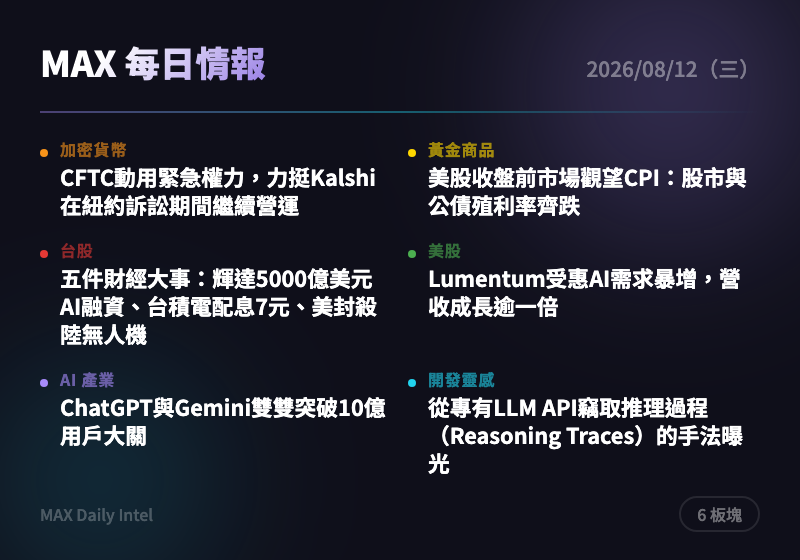
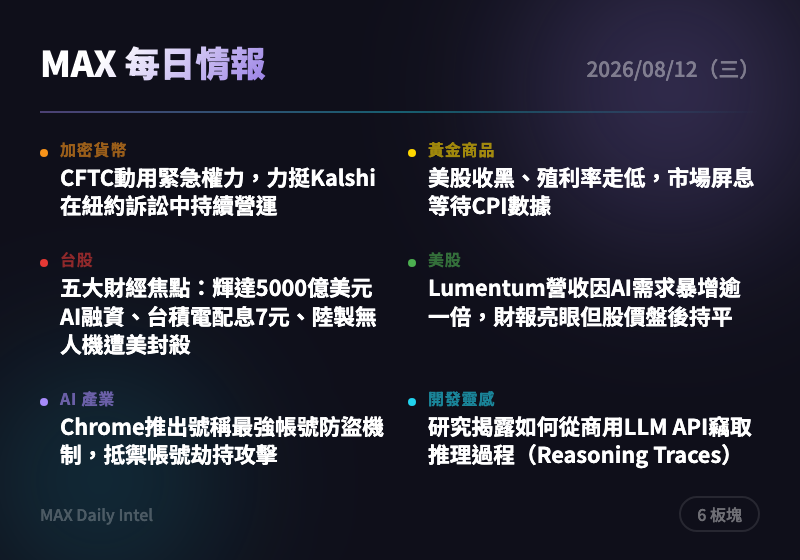
intel: 2026-08-12 每日情報自動生成

diff --git a/docs/2026-08-12.html b/docs/2026-08-12.html
@@ -318,14 +318,14 @@
     </div>
     <div class="news-card">
       <div class="source">The Block</div>
-      <h3><a href="https://www.theblock.co/news/regulation/2026-08-11-cftc-flexes-emergency-authority-kalshi-operating-amid-new-york-lawsuit-411507" target="_blank" rel="noopener">CFTC動用緊急權力，力挺Kalshi在紐約訴訟期間繼續營運</a></h3>
-      <div class="summary">美國商品期貨交易委員會（CFTC）動用緊急權力，要求預測市場平台Kalshi在遭紐約州提告後仍可繼續營運。此舉顯示聯邦監管機構與州政府在預測市場合法性上出現管轄權角力，對整個預測市場／加密博弈類產品是一大利多訊號。可留意後續聯邦與各州監管衝突是否擴大至其他平台。</div>
-      <div class="tags"><span class="tag">監管</span><span class="tag">預測市場</span><span class="tag">CFTC</span><span class="tag">法律訴訟</span></div>
+      <h3><a href="https://www.theblock.co/news/regulation/2026-08-11-cftc-flexes-emergency-authority-kalshi-operating-amid-new-york-lawsuit-411507" target="_blank" rel="noopener">CFTC動用緊急權力，力挺Kalshi在紐約訴訟中持續營運</a></h3>
+      <div class="summary">美國商品期貨交易委員會（CFTC）動用緊急權力，下令預測市場平台Kalshi在遭紐約州提告後仍可繼續營運。此舉顯示聯邦監管機關與州政府在預測市場（如Kalshi的博弈型合約）監管權限上出現直接角力，對整個預測市場產業的合法性至關重要。可持續關注聯邦與州級監管衝突的後續發展，評估對相關類股與平台的長期影響。</div>
+      <div class="tags"><span class="tag">監管</span><span class="tag">CFTC</span><span class="tag">預測市場</span><span class="tag">Kalshi</span></div>
     </div>
     <div class="news-card">
       <div class="source">CoinDesk</div>
-      <h3><a href="https://www.coindesk.com/markets/2026/08/11/bitcoin-stuck-as-etf-inflows-offset-selling-but-inflation-data-could-spark-a-move" target="_blank" rel="noopener">比特幣陷入盤整：ETF流入抵銷賣壓，通膨數據恐成變盤點</a></h3>
-      <div class="summary">比特幣近日在ETF資金流入與現貨賣壓相互抵銷下陷入區間震盪。市場正等待美國CPI數據，一旦數據意外可能觸發方向性突破。建議短線觀望，待CPI公布後再決定加減碼。</div>
+      <h3><a href="https://www.coindesk.com/markets/2026/08/11/bitcoin-stuck-as-etf-inflows-offset-selling-but-inflation-data-could-spark-a-move" target="_blank" rel="noopener">比特幣陷入盤整，ETF流入抵銷賣壓，CPI數據恐成變盤關鍵</a></h3>
+      <div class="summary">比特幣近期在ETF資金流入與賣壓互相抵銷下陷入區間震盪。市場正屏息等待美國通膨數據公布，這可能成為打破僵局、觸發方向性行情的關鍵催化劑。建議留意CPI公布前後的波動放大，避免在數據公布前重倉單邊押注。</div>
       <div class="tags"><span class="tag">比特幣</span><span class="tag">ETF</span><span class="tag">通膨數據</span><span class="tag">總體經濟</span></div>
     </div>
   </section>
@@ -338,15 +338,15 @@
     </div>
     <div class="news-card">
       <div class="source">ForexLive</div>
-      <h3><a href="https://investinglive.com/news/investinglive-americas-fx-news-wrap-11-aug-stocks-yields-slip-as-markets-await-us-cpi/" target="_blank" rel="noopener">美股收盤前市場觀望CPI：股市與公債殖利率齊跌</a></h3>
-      <div class="summary">週二美股收盤普遍下滑，公債殖利率小幅走低，美元兌主要貨幣變動不大。市場情緒受美伊協議前景轉淡、荷姆茲海峽局勢不明及科技股疲軟拖累。投資人應留意隔日CPI數據公布前的避險情緒是否延續。</div>
-      <div class="tags"><span class="tag">美股</span><span class="tag">公債殖利率</span><span class="tag">地緣政治</span><span class="tag">通膨數據</span></div>
+      <h3><a href="https://investinglive.com/news/investinglive-americas-fx-news-wrap-11-aug-stocks-yields-slip-as-markets-await-us-cpi/" target="_blank" rel="noopener">美股收黑、殖利率走低，市場屏息等待CPI數據</a></h3>
+      <div class="summary">週二美股收盤多數走低，公債殖利率沿殖利率曲線多數下滑，美元兌主要貨幣變動不大。市場對美伊協議的樂觀情緒消退，加上荷莫茲海峽情勢持續不明朗，科技股表現疲弱。交易人正將焦點轉向即將公布的CPI數據，投資人可提前佈局波動避險策略。</div>
+      <div class="tags"><span class="tag">美股</span><span class="tag">公債殖利率</span><span class="tag">CPI</span><span class="tag">地緣政治</span></div>
     </div>
     <div class="news-card">
       <div class="source">ForexLive</div>
-      <h3><a href="https://investinglive.com/news/eia-raises-crude-oil-price-forecasts-as-middle-east-supply-risks-tighten-outlook/" target="_blank" rel="noopener">中東供應風險升溫，EIA上修原油價格預測</a></h3>
-      <div class="summary">美國能源資訊署（EIA）因中東地緣政治風險與航運路線持續受威脅，上修2026與2027年原油價格預測。此舉反映市場對供應中斷的擔憂持續發酵，可能連帶推升黃金避險需求。留意原油與黃金聯動走勢，作為地緣風險升溫的領先指標。</div>
-      <div class="tags"><span class="tag">原油</span><span class="tag">地緣政治</span><span class="tag">EIA</span><span class="tag">中東</span></div>
+      <h3><a href="https://investinglive.com/news/eia-raises-crude-oil-price-forecasts-as-middle-east-supply-risks-tighten-outlook/" target="_blank" rel="noopener">EIA上調原油價格預測，中東供應風險收緊市場展望</a></h3>
+      <div class="summary">美國能源資訊署（EIA）大幅調升2026與2027年原油價格預測，主因中東地區7月的產量中斷及航運路線持續存在風險。地緣政治緊張推升能源價格預期，恐加大通膨壓力並牽動央行利率決策。可留意能源類股與通膨連動資產的避險機會。</div>
+      <div class="tags"><span class="tag">原油</span><span class="tag">地緣政治</span><span class="tag">中東</span><span class="tag">通膨</span></div>
     </div>
   </section>
 
@@ -358,15 +358,15 @@
     </div>
     <div class="news-card">
       <div class="source">經濟日報</div>
-      <h3><a href="https://money.udn.com/money/story/5607/9685691" target="_blank" rel="noopener">五件財經大事：輝達5000億美元AI融資、台積電配息7元、美封殺陸無人機</a></h3>
-      <div class="summary">輝達宣布與六大金融巨頭合作設立逾5000億美元的AI基礎建設融資平台，同時台積電董事會確認Q2配息維持7元並與索尼合資投資日圓2820億元新公司。美國同步升級對中國無人機的管制，雷虎、漢翔、亞光等台廠可望受惠。建議關注AI供應鏈與無人機軍工概念股的資金動向。</div>
-      <div class="tags"><span class="tag">台積電</span><span class="tag">輝達</span><span class="tag">AI</span><span class="tag">地緣政治</span></div>
+      <h3><a href="https://money.udn.com/money/story/5607/9685691" target="_blank" rel="noopener">五大財經焦點：輝達5000億美元AI融資、台積電配息7元、陸製無人機遭美封殺</a></h3>
+      <div class="summary">輝達攜六大金融巨頭設立逾5,000億美元的AI基礎設施融資平台，同時台積電董事會確認Q2配息維持7元並與索尼合資投資2,820億日圓。美國對中國無人機管制再升級，雷虎、漢翔等台廠可望受惠轉單效應。建議關注AI供應鏈資金動能與美中科技對抗延伸出的台廠轉單機會。</div>
+      <div class="tags"><span class="tag">台積電</span><span class="tag">輝達</span><span class="tag">AI</span><span class="tag">美中科技戰</span></div>
     </div>
     <div class="news-card">
       <div class="source">經濟日報</div>
-      <h3><a href="https://money.udn.com/money/story/5607/9685604" target="_blank" rel="noopener">台股先殺多再軋空收復45K，外資動向、油價、處置股新制牽動後市</a></h3>
-      <div class="summary">輝達攜手六大金融巨頭設立逾5000億美元運算融資平台，一度衝擊科技股信心導致台股開低，但三大法人合計買超280.1億元強力反攻，終場上漲191點收復45,120點。後續走勢仍需關注外資動向、油價變化及處置股新制的影響。可留意權值科技股逢低承接機會。</div>
-      <div class="tags"><span class="tag">台股</span><span class="tag">外資</span><span class="tag">輝達</span><span class="tag">半導體</span></div>
+      <h3><a href="https://money.udn.com/money/story/5607/9685604" target="_blank" rel="noopener">台股先殺多再軋空，收復45K關卡，外資動向牽動後市</a></h3>
+      <div class="summary">受輝達AI融資消息衝擊科技股信心，台股昨日開低走低，但盤中三大法人合計買超280.1億元，成功逆轉指數翻紅，全日大漲191點收復45,120點的45K關卡。此波「先殺多、再軋空」的洗盤格局顯示市場資金韌性強勁，但需留意處置股新制與油價變化對後市的干擾。可觀察三大法人買賣超動向作為短線進出參考。</div>
+      <div class="tags"><span class="tag">台股</span><span class="tag">外資買超</span><span class="tag">AI供應鏈</span><span class="tag">大盤走勢</span></div>
     </div>
   </section>
 
@@ -378,15 +378,15 @@
     </div>
     <div class="news-card">
       <div class="source">MarketWatch</div>
-      <h3><a href="https://www.marketwatch.com/story/lumentum-sees-sales-more-than-double-as-ai-demand-swells-6ebe6ef1?mod=mw_rss_topstories" target="_blank" rel="noopener">Lumentum受惠AI需求暴增，營收成長逾一倍</a></h3>
-      <div class="summary">光通訊元件廠Lumentum受惠AI基礎建設需求強勁，營收較去年同期成長逾一倍，財報表現亮眼且財測展望樂觀。不過盤後股價反應平淡，顯示市場對利多已有預期。可觀察AI光通訊供應鏈後續評價修正空間。</div>
-      <div class="tags"><span class="tag">AI</span><span class="tag">半導體</span><span class="tag">財報</span><span class="tag">光通訊</span></div>
+      <h3><a href="https://www.marketwatch.com/story/lumentum-sees-sales-more-than-double-as-ai-demand-swells-6ebe6ef1?mod=mw_rss_topstories" target="_blank" rel="noopener">Lumentum營收因AI需求暴增逾一倍，財報亮眼但股價盤後持平</a></h3>
+      <div class="summary">光通訊元件廠Lumentum受惠於AI基礎建設需求強勁，單季營收成長逾一倍，財報表現優於預期且展望樂觀。儘管業績亮眼，股價在盤後交易中卻大致持平，顯示市場對AI供應鏈類股的高預期已提前反映在股價中。可留意類似AI硬體供應鏈公司「利多不漲」的現象是否延續。</div>
+      <div class="tags"><span class="tag">AI</span><span class="tag">財報</span><span class="tag">光通訊</span><span class="tag">美股</span></div>
     </div>
     <div class="news-card">
       <div class="source">MarketWatch</div>
-      <h3><a href="https://www.marketwatch.com/story/super-micros-earnings-report-brings-more-good-news-and-the-stock-is-climbing-30e5ca89?mod=mw_rss_topstories" target="_blank" rel="noopener">美超微(Super Micro)財報再傳佳音，股價走揚</a></h3>
-      <div class="summary">美超微公司公布的財報再度傳出正面消息，股價因此上漲。公司先前已預告獲利能力將改善，如今最新財測進一步超出華爾街預期。AI伺服器供應鏈相關個股可持續追蹤其後續展望。</div>
-      <div class="tags"><span class="tag">美超微</span><span class="tag">AI</span><span class="tag">財報</span><span class="tag">伺服器</span></div>
+      <h3><a href="https://www.marketwatch.com/story/super-micros-earnings-report-brings-more-good-news-and-the-stock-is-climbing-30e5ca89?mod=mw_rss_topstories" target="_blank" rel="noopener">美超微(Super Micro)財報再傳佳音，股價應聲上漲</a></h3>
+      <div class="summary">伺服器大廠美超微公布的最新財報再度傳出好消息，展望超越市場預期，帶動股價走揚。公司數週前已預告獲利能力軌跡改善，此次財報進一步驗證其AI伺服器業務動能持續增溫。建議關注AI伺服器供應鏈類股在財報季的後續表現。</div>
+      <div class="tags"><span class="tag">美超微</span><span class="tag">AI伺服器</span><span class="tag">財報</span><span class="tag">美股</span></div>
     </div>
   </section>
 
@@ -397,16 +397,16 @@
       <span class="badge">2 則</span>
     </div>
     <div class="news-card">
-      <div class="source">The Verge AI</div>
-      <h3><a href="https://www.theverge.com/ai-artificial-intelligence/978113/chatgpt-gemini-1-billion-users" target="_blank" rel="noopener">ChatGPT與Gemini雙雙突破10億用戶大關</a></h3>
-      <div class="summary">Google執行長Pichai宣布Gemini月活躍用戶突破10億，成為Google成長最快的產品，緊追OpenAI的ChatGPT達成同一里程碑。這顯示生成式AI應用已進入大眾化普及階段，兩大龍頭競爭將更趨白熱化。可觀察後續兩家在功能與商業化上的差異化策略。</div>
-      <div class="tags"><span class="tag">Google</span><span class="tag">OpenAI</span><span class="tag">生成式AI</span><span class="tag">用戶成長</span></div>
+      <div class="source">Ars Technica AI</div>
+      <h3><a href="https://arstechnica.com/security/2026/08/chrome-adopts-what-may-be-the-best-protection-yet-against-account-takeovers/" target="_blank" rel="noopener">Chrome推出號稱最強帳號防盜機制，抵禦帳號劫持攻擊</a></h3>
+      <div class="summary">Google為Chrome瀏覽器導入裝置綁定的session憑證機制，可有效阻擋日益猖獗的一種帳號劫持手法（session token竊取）。此為瀏覽器安全防護的重大升級，對企業與個人資安防護皆具意義。建議關注此機制普及後對釣魚攻擊及惡意軟體竊取session手法的實際防禦效果。</div>
+      <div class="tags"><span class="tag">資安</span><span class="tag">Chrome</span><span class="tag">帳號防護</span><span class="tag">Google</span></div>
     </div>
     <div class="news-card">
-      <div class="source">TechCrunch AI</div>
-      <h3><a href="https://techcrunch.com/2026/08/11/googles-gemini-app-surges-to-one-billion-users/" target="_blank" rel="noopener">Google Gemini應用程式用戶激增至10億</a></h3>
-      <div class="summary">Google公布Gemini詳細使用數據，63%用戶直接用語音功能與助理對話，且每日生成圖片數已超過1.5億張。這顯示語音互動與圖像生成正成為AI應用的核心使用場景，而非僅止於文字問答。可留意語音優先AI助理相關產品的投資機會。</div>
-      <div class="tags"><span class="tag">Google</span><span class="tag">Gemini</span><span class="tag">語音AI</span><span class="tag">生成式AI</span></div>
+      <div class="source">The Verge AI</div>
+      <h3><a href="https://www.theverge.com/ai-artificial-intelligence/978113/chatgpt-gemini-1-billion-users" target="_blank" rel="noopener">ChatGPT與Gemini雙雙突破10億用戶大關</a></h3>
+      <div class="summary">Google執行長Pichai在X上宣布Gemini月活躍用戶已突破10億，成為Google成長最快的產品，緊追OpenAI的ChatGPT達成相同里程碑。這代表主流AI聊天機器人已正式進入大眾化普及階段，兩大龍頭的用戶爭奪戰進入白熱化。可持續關注用戶規模轉化為商業營收與生態系鎖定效應的能力。</div>
+      <div class="tags"><span class="tag">AI</span><span class="tag">Gemini</span><span class="tag">ChatGPT</span><span class="tag">用戶成長</span></div>
     </div>
   </section>
 
@@ -418,15 +418,15 @@
     </div>
     <div class="news-card">
       <div class="source">Hacker News Best</div>
-      <h3><a href="https://stolen-thoughts.com/" target="_blank" rel="noopener">從專有LLM API竊取推理過程（Reasoning Traces）的手法曝光</a></h3>
-      <div class="summary">研究人員揭露一種可從商業LLM API中竊取內部推理鏈（reasoning traces）的技術，引發Hacker News熱烈討論（439分、179則留言）。此發現凸顯專有模型的推理過程可能未如預期受到保護，對AI廠商的智財與安全防護提出新挑戰。開發AI應用時應留意此類側信道資訊洩漏風險。</div>
-      <div class="tags"><span class="tag">AI安全</span><span class="tag">LLM</span><span class="tag">資安</span><span class="tag">開發者</span></div>
+      <h3><a href="https://stolen-thoughts.com/" target="_blank" rel="noopener">研究揭露如何從商用LLM API竊取推理過程（Reasoning Traces）</a></h3>
+      <div class="summary">一項新研究揭露了如何從專有的商用LLM API中竊取模型的內部推理軌跡，該議題在Hacker News上引發熱烈討論（439分、179則留言）。此發現凸顯了AI服務供應商在保護模型智慧財產與推理邏輯機密性上面臨的新型資安挑戰。建議關注此類側信道攻擊手法對API供應商防護策略帶來的影響。</div>
+      <div class="tags"><span class="tag">LLM</span><span class="tag">資安</span><span class="tag">API</span><span class="tag">開發者社群</span></div>
     </div>
     <div class="news-card">
       <div class="source">Hacker News Best</div>
       <h3><a href="https://support.claude.com/en/articles/16266773-how-claude-marks-ai-generated-content" target="_blank" rel="noopener">Claude如何標記AI生成內容</a></h3>
-      <div class="summary">Anthropic說明Claude為AI生成的文字與圖片加上不可見浮水印及可驗證來源資訊的技術方式，以因應歐盟AI透明度法規要求。此舉呼應業界對AI內容可溯源性的重視趨勢，未來使用Claude生成內容的開發者或需了解此機制對下游應用的影響。</div>
-      <div class="tags"><span class="tag">Anthropic</span><span class="tag">Claude</span><span class="tag">AI浮水印</span><span class="tag">監管合規</span></div>
+      <div class="summary">Anthropic說明了Claude對AI生成文字與圖像加入浮水印及來源追溯metadata的具體作法，此舉是為了符合歐盟AI透明度法規要求。該作法為機器可讀但對人類使用者不可見，未來也將擴及舊版模型。此議題反映AI內容溯源與監管合規正成為產業標配，可留意其他AI廠商是否跟進類似機制。</div>
+      <div class="tags"><span class="tag">Anthropic</span><span class="tag">Claude</span><span class="tag">AI監管</span><span class="tag">內容溯源</span></div>
     </div>
   </section>
 

diff --git a/docs/cards/2026-08-12-card.html b/docs/cards/2026-08-12-card.html
@@ -23,11 +23,11 @@ body{width:400px;height:280px;font-family:'Noto Sans TC',-apple-system,sans-seri
 <div class="content">
 <div class="top-row"><span class="title">MAX 每日情報</span><span class="date">2026/08/12（三）</span></div>
 <div class="divider"></div>
-<div class="grid"><div class="cell"><div class="dot" style="background:#f7931a"></div><div><div class="label" style="color:#f7931a">加密貨幣</div><div class="headline">CFTC動用緊急權力，力挺Kalshi在紐約訴訟期間繼續營運</div></div></div>
-<div class="cell"><div class="dot" style="background:#ffd700"></div><div><div class="label" style="color:#ffd700">黃金商品</div><div class="headline">美股收盤前市場觀望CPI：股市與公債殖利率齊跌</div></div></div>
-<div class="cell"><div class="dot" style="background:#e53935"></div><div><div class="label" style="color:#e53935">台股</div><div class="headline">五件財經大事：輝達5000億美元AI融資、台積電配息7元、美封殺陸無人機</div></div></div>
-<div class="cell"><div class="dot" style="background:#4caf50"></div><div><div class="label" style="color:#4caf50">美股</div><div class="headline">Lumentum受惠AI需求暴增，營收成長逾一倍</div></div></div>
-<div class="cell"><div class="dot" style="background:#a78bfa"></div><div><div class="label" style="color:#a78bfa">AI 產業</div><div class="headline">ChatGPT與Gemini雙雙突破10億用戶大關</div></div></div>
-<div class="cell"><div class="dot" style="background:#22d3ee"></div><div><div class="label" style="color:#22d3ee">開發靈感</div><div class="headline">從專有LLM API竊取推理過程（Reasoning Traces）的手法曝光</div></div></div></div>
+<div class="grid"><div class="cell"><div class="dot" style="background:#f7931a"></div><div><div class="label" style="color:#f7931a">加密貨幣</div><div class="headline">CFTC動用緊急權力，力挺Kalshi在紐約訴訟中持續營運</div></div></div>
+<div class="cell"><div class="dot" style="background:#ffd700"></div><div><div class="label" style="color:#ffd700">黃金商品</div><div class="headline">美股收黑、殖利率走低，市場屏息等待CPI數據</div></div></div>
+<div class="cell"><div class="dot" style="background:#e53935"></div><div><div class="label" style="color:#e53935">台股</div><div class="headline">五大財經焦點：輝達5000億美元AI融資、台積電配息7元、陸製無人機遭美封殺</div></div></div>
+<div class="cell"><div class="dot" style="background:#4caf50"></div><div><div class="label" style="color:#4caf50">美股</div><div class="headline">Lumentum營收因AI需求暴增逾一倍，財報亮眼但股價盤後持平</div></div></div>
+<div class="cell"><div class="dot" style="background:#a78bfa"></div><div><div class="label" style="color:#a78bfa">AI 產業</div><div class="headline">Chrome推出號稱最強帳號防盜機制，抵禦帳號劫持攻擊</div></div></div>
+<div class="cell"><div class="dot" style="background:#22d3ee"></div><div><div class="label" style="color:#22d3ee">開發靈感</div><div class="headline">研究揭露如何從商用LLM API竊取推理過程（Reasoning Traces）</div></div></div></div>
 <div class="bottom-row"><span class="url">MAX Daily Intel</span><span class="badge">6 板塊</span></div>
 </div></body></html>
